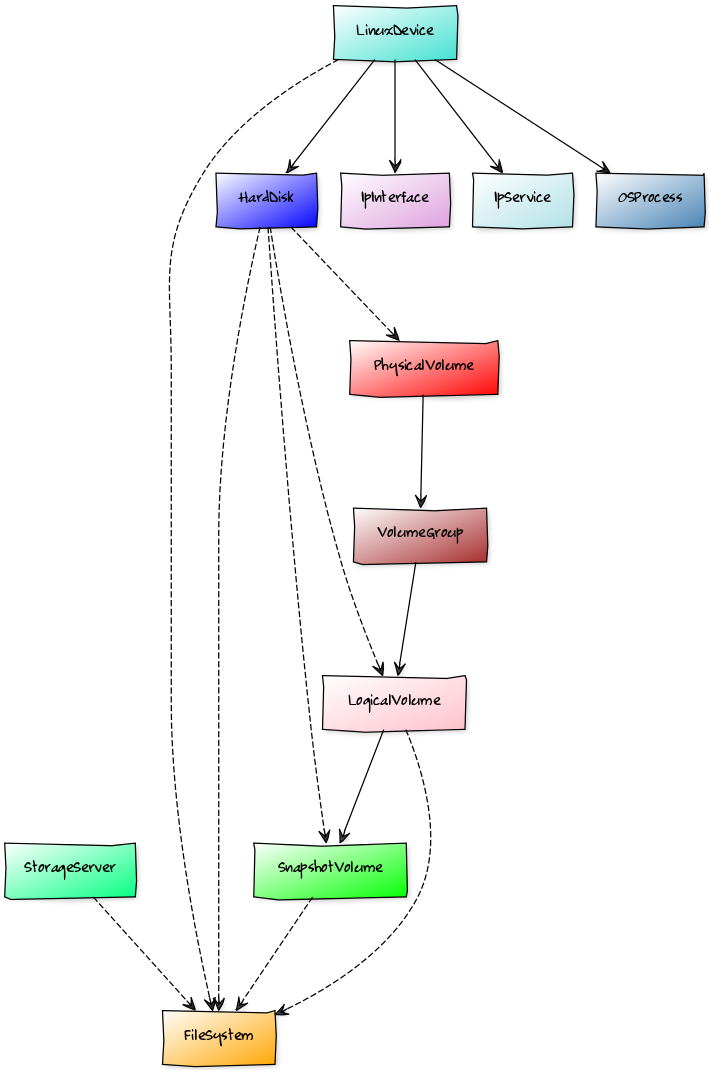
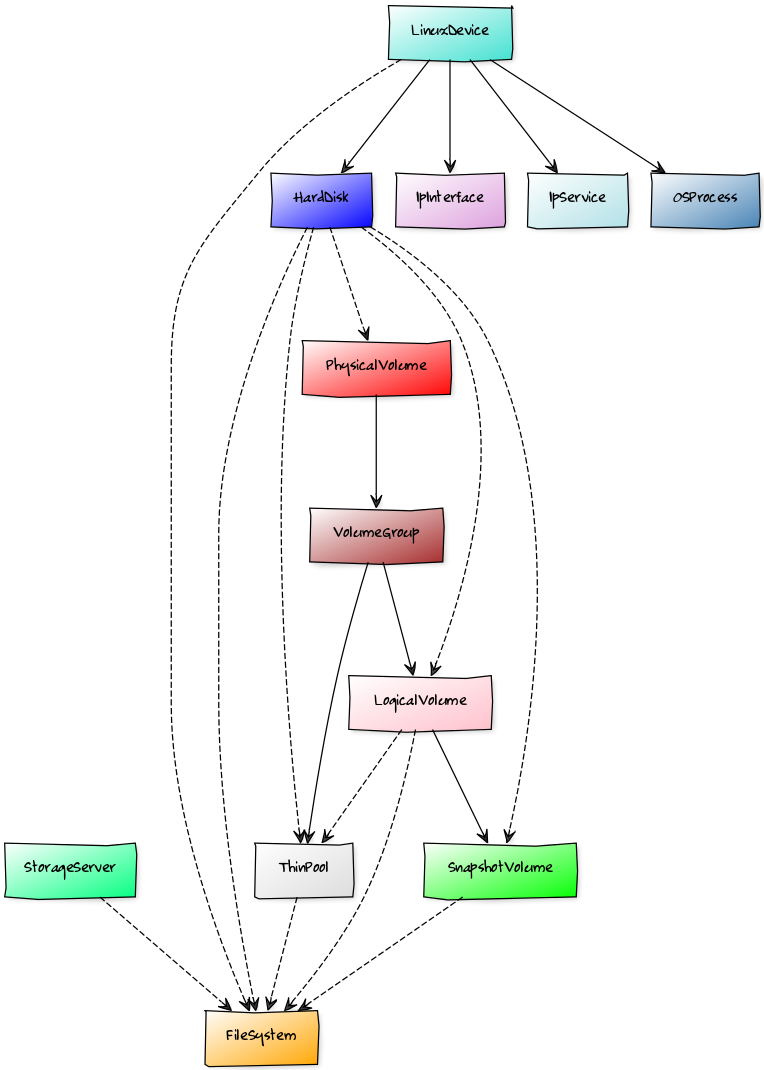
Feature/zps 2494-Thin Pool Monitoring  (#192)

diff --git a/ZenPacks/zenoss/LinuxMonitor/modeler/plugins/zenoss/cmd/linux/lvm.py b/ZenPacks/zenoss/LinuxMonitor/modeler/plugins/zenoss/cmd/linux/lvm.py
@@ -1,6 +1,6 @@
 ##############################################################################
 #
-# Copyright (C) Zenoss, Inc. 2015, all rights reserved.
+# Copyright (C) Zenoss, Inc. 2018, all rights reserved.
 #
 # This content is made available according to terms specified in
 # License.zenoss under the directory where your Zenoss product is installed.
@@ -92,7 +92,9 @@ class lvm(CommandPlugin):
                'lsblk -rb 2>&1; '
                'sudo pvs --units b --nosuffix -o pv_name,pv_fmt,pv_attr,pv_size,pv_free,pv_uuid,vg_name 2>&1; '
                'sudo vgs --units b --nosuffix -o vg_name,vg_attr,vg_size,vg_free,vg_uuid 2>&1; '
-               'sudo lvs --units b --nosuffix -o lv_name,vg_name,lv_attr,lv_size,lv_uuid,origin 2>&1; '
+               'if command -v thin_check >/dev/null 2>&1; then '
+               '''sudo lvs --separator ' '  --units b --nosuffix -o lv_name,vg_name,lv_attr,lv_size,lv_uuid,origin,lv_metadata_size,pool_lv; else '''
+               '''sudo lvs --separator ' '  --units b --nosuffix -o lv_name,vg_name,lv_attr,lv_size,lv_uuid,origin; fi; '''
                'echo "DISK_BY_ID  LINK" 2>&1; '
                'find /dev/disk/by-id -type l ! -name "*-part*" -printf "%P %l\\n" 2>&1'
                )
@@ -137,7 +139,9 @@ class lvm(CommandPlugin):
             '\s*(?P<lv_attr>\S+)'
             '\s*(?P<lv_size>\d+)'
             '\s*(?P<lv_uuid>\S+)'
-            '\s*(?P<origin>\S*)')
+            '\s?(?P<origin>\S*)'
+            '\s?(?P<lv_metadata_size>\d*)'
+            '\s?(?P<pool_lv>\S*)')
         by_id_re = re.compile(
             '(?P<disk_id>\S+)'            # the id label
             '\s*\.\./\.\./'               # the ../../ prefix to the link
@@ -222,7 +226,7 @@ class lvm(CommandPlugin):
             if hasattr(hd_om, 'disk_ids'):
                 for id in hd_om.disk_ids:
                     if id.startswith('wwn-0x') and len(id) == 38:
-                        # add 30 bytes of likely uuid to disk_ids 
+                        # add 30 bytes of likely uuid to disk_ids
                         # to simplify uuid search on CiscoUCS side
                         # because Windows hard disk would chop off
                         # the first 2 bytes
@@ -258,6 +262,7 @@ class lvm(CommandPlugin):
 
         for vg_om in vg_maps:
             lv_vg_oms = []
+            tp_vg_oms = []
             compname = 'volumeGroups/' + vg_om.id
             for lv_om in lv_maps:
                 if lv_om.vgname == vg_om.title:
@@ -275,12 +280,20 @@ class lvm(CommandPlugin):
                         # device block not found
                         log.debug('device block {} not found for logical volume {} in volume group {}'
                                   .format(lv_om.vgname+'-'+lv_om.title, lv_om.title, lv_om.vgname))
-                    lv_vg_oms.append(lv_om)
+                    if  lv_om.modname == 'ZenPacks.zenoss.LinuxMonitor.ThinPool':
+                        tp_vg_oms.append(lv_om)
+                    else:
+                        lv_vg_oms.append(lv_om)
             maps.append(RelationshipMap(
                 relname="logicalVolumes",
                 compname=compname,
                 modname="ZenPacks.zenoss.LinuxMonitor.LogicalVolume",
                 objmaps=lv_vg_oms))
+            maps.append(RelationshipMap(
+                relname="thinPools",
+                compname=compname,
+                modname="ZenPacks.zenoss.LinuxMonitor.ThinPool",
+                objmaps=tp_vg_oms))
 
             for lv_om in lv_maps:
                 if lv_om.vgname == vg_om.title:
@@ -354,7 +367,16 @@ class lvm(CommandPlugin):
             lv_om.origin = columns['origin']
             lv_om.relname = 'snapshotVolumes'
             lv_om.modname = 'ZenPacks.zenoss.LinuxMonitor.SnapshotVolume'
+        elif columns['lv_metadata_size']:
+            lv_om.id = 'tp-{}'.format(self.prepId(columns['vg_name'])+'_'+self.prepId(columns['lv_name']))
+            lv_om.metadatasize = columns['lv_metadata_size']
+            lv_om.relname = 'thinPools'
+            lv_om.modname = 'ZenPacks.zenoss.LinuxMonitor.ThinPool'
         else:
+            if columns['pool_lv']:
+                lv_om.set_thinPool = 'tp-{}'.format(self.prepId(columns['vg_name'])+'_'+self.prepId(columns['pool_lv']))
+            else:
+                lv_om.set_thinPool = ''
             lv_om.relname = 'logicalVolumes'
             lv_om.modname = 'ZenPacks.zenoss.LinuxMonitor.LogicalVolume'
         return lv_om

diff --git a/ZenPacks/zenoss/LinuxMonitor/ThinPool.py b/ZenPacks/zenoss/LinuxMonitor/ThinPool.py
@@ -1,0 +1,64 @@
+##############################################################################
+#
+# Copyright (C) Zenoss, Inc. 2018, all rights reserved.
+#
+# This content is made available according to terms specified in
+# License.zenoss under the directory where your Zenoss product is installed.
+#
+##############################################################################
+
+from Products.ZenUtils.Utils import prepId
+from ZenPacks.zenoss.LinuxMonitor.util import override_graph_labels
+
+from . import schema
+
+class ThinPool(schema.ThinPool):
+    '''Class that handles Thin Pools
+    '''
+
+    def filesystem(self):
+        """Return filesystem mounting this Thin Pool."""
+        try:
+            # Assumes all FileSystem ids are prepId(mount). Currently they are.
+            return self.device().os.filesystems._getOb(prepId(self.mountpoint))
+        except Exception:
+            pass
+
+    def blockDevice(self):
+        if not self.major_minor:
+            return
+
+        device = self.device()
+        results = device.componentSearch.search({'meta_type': 'LinuxHardDisk'})
+        for brain in results:
+            try:
+                obj = brain.getObject()
+            except Exception:
+                pass
+            else:
+                if obj.major_minor == self.major_minor:
+                    return obj
+
+    def getDefaultGraphDefs(self, drange=None):
+        # Add and re-label graphs displayed in other components
+        graphs = super(ThinPool, self).getDefaultGraphDefs(drange)
+        vg = self.volumeGroup()
+        if vg:
+            vgGraphs = override_graph_labels(vg, drange)
+            graphs.extend(vgGraphs)
+
+        bd = self.blockDevice()
+        if bd:
+            bdGraphs = override_graph_labels(bd, drange)
+            graphs.extend(bdGraphs)
+
+        return graphs
+
+    def getGraphObjects(self):
+        graphs = super(ThinPool, self).getGraphObjects()
+        graphs.extend(self.volumeGroup().getGraphObjects())
+        bd = self.blockDevice()
+        if bd:
+            graphs.extend(bd.getGraphObjects())
+
+        return graphs

diff --git a/ZenPacks/zenoss/LinuxMonitor/parsers/linux/poolstats.py b/ZenPacks/zenoss/LinuxMonitor/parsers/linux/poolstats.py
@@ -1,0 +1,57 @@
+##############################################################################
+#
+# Copyright (C) Zenoss, Inc. 2018, all rights reserved.
+#
+# This content is made available according to terms specified in
+# License.zenoss under the directory where your Zenoss product is installed.
+#
+##############################################################################
+
+"""Parse results of lvm2 "lvs" command.
+
+Retrieve the data_percent and metadata_percent fields.
+
+sample output:
+docker   docker-pool   6.85   1.35
+serviced serviced-pool 4.94   0.56
+
+
+"""
+import logging
+log = logging.getLogger("zen.poolstats")
+
+from Products.ZenRRD.CommandParser import CommandParser
+
+class poolstats(CommandParser):
+
+    def dataForParser(self, context, dp):
+        """Add additional data to dp for the processResults method.
+
+        This method is executed in zenhub, so context will be a full
+        ThinPool.
+
+        """
+        return {
+            'vgname': getattr(context, 'vgname', None),
+            'lvname': getattr(context, 'title', None),
+            }
+
+    def processResults(self, cmd, result):
+
+        for dp in cmd.points:
+
+            for line in cmd.result.output.split('\n'):
+                try:
+                    vg_name, lv_name, data_percent, metadata_percent = line.strip().split()
+                except ValueError:
+                    continue
+
+                # Verify that this line is for the appropriate component.
+                if vg_name != dp.data['vgname'] or lv_name != dp.data['lvname']:
+                    continue
+
+                if dp.id == 'percentDataUsed':
+                    result.values.append((dp, data_percent))
+                elif dp.id == 'percentMetaDataUsed':
+                    result.values.append((dp, metadata_percent))
+        return result

diff --git a/ZenPacks/zenoss/LinuxMonitor/migrate/AddRelations.py b/ZenPacks/zenoss/LinuxMonitor/migrate/AddRelations.py
@@ -1,0 +1,28 @@
+##############################################################################
+#
+# Copyright (C) Zenoss, Inc. 2017, all rights reserved.
+#
+# This content is made available according to terms specified in
+# License.zenoss under the directory where your Zenoss product is installed.
+#
+##############################################################################
+
+from Products.ZenModel.migrate.Migrate import Version
+from Products.ZenModel.ZenPack import ZenPackMigration
+
+
+class AddRelations(ZenPackMigration):
+    version = Version(2, 3, 0)
+
+    def migrate(self, pack):
+        dc = pack.dmd.Devices.Server.SSH.Linux
+        for d in dc.getSubDevicesGen():
+
+            for volumeGroup in d.volumeGroups():
+                if not hasattr(volumeGroup, 'thinPools'):
+                    volumeGroup.buildRelations()
+                for logicalVolume in volumeGroup.logicalVolumes():
+                    if not hasattr(logicalVolume, 'thinPool'):
+                        logicalVolume.buildRelations()
+
+AddRelations()

diff --git a/ZenPacks/zenoss/LinuxMonitor/tests/plugindata/lvm.py b/ZenPacks/zenoss/LinuxMonitor/tests/plugindata/lvm.py
@@ -42,7 +42,16 @@
              'title': 'share',
              'uuid': 'SBIYpJ-Xgcr-0nlT-ModL-aqev-1L2T-rQgZUX',
              'vgname': 'lvmserver'}, },
-
+        {'tp-lvmserver_pool':
+            {'attributes': ['thin pool','writeable','inherited','active','open','thin'],
+             'id': 'tp-lvmserver_pool',
+             'lvsize': 1073741824,
+             'modname': 'ZenPacks.zenoss.LinuxMonitor.ThinPool',
+             'metadatasize': '4194304',
+             'relname': 'thinPools',
+             'title': 'pool',
+             'uuid': 'Je2mF8-V0q3-CXVX-6p21-eBAD-VMPt-pEOczH',
+             'vgname': 'lvmserver'}, },
         {'lv-lvmserver_share-snapshot':
             {'attributes': ['snapshot', 'writeable', 'inherited', 'active'],
              'id': 'lv-lvmserver_share-snapshot',

diff --git a/README.rst b/README.rst
@@ -46,7 +46,7 @@ Features
 
 -  Monitors multiple Linux flavors and versions
 -  OpenStack LVM volume integration
--  Monitors LVM Physical Volumes, Volume Groups, and Logical Volumes
+-  Monitors LVM Physical Volumes, Volume Groups, Thin Pools and Logical Volumes
 -  Block Device monitoring
 -  Service Monitoring via Sysvinit, Systemd, Upstart
 -  Root Cause Analysis with Impact Support
@@ -103,11 +103,16 @@ Physical Volumes
 
 Volume Groups
     Attributes: Name, Size, Free, % Util, Snapshot Volumes, Logical
-    Volumes, Physical Volumes
+    Volumes, Physical Volumes, Thin Pools
 
 Logical Volumes
     Attributes: Name, Volume Group, Size, Block Device, File System,
     Active, Snapshot Volumes
+    Relations: Volume Groups, Thin Pools
+
+Thin Pools
+    Attributes: Name, Volume Group, Size, Block Device, File System,
+    Active, Metadata Size
     Relations: Volume Groups
 
 OS Processes
@@ -341,6 +346,7 @@ Modeler Plugins
 -  zenoss.cmd.linux.sudo\_dmidecode
 -  zenoss.cmd.linux.os\_release
 -  zenoss.cmd.linux.os\_service
+-  zenoss.cmd.linux.poolstats
 
 .. Note::
    As of version 2.3.0 the zenoss.cmd.linux.rpm and zenoss.cmd.linux.alt\_kernel\_name
@@ -360,6 +366,7 @@ Monitoring Templates
 -  LogicalVolume (in /Devices/Server/SSH/Linux)
 -  OSProcess (in /Devices/Server/SSH/Linux)
 -  OSService (in /Devices/Server/SSH/Linux)
+-  ThinPool (in /Devices/Server/SSH/Linux)
 
 Monitoring Templates
 --------------------
@@ -562,6 +569,23 @@ LogicalVolume (in /Devices/Server/SSH/Linux)
 
    -  *None*
 
+ThinPool (in /Devices/Server/SSH/Linux)
+
+-  Data Points
+
+   -  state
+   -  health
+   -  percentDataUsed
+   -  percentMetaDataUsed
+
+-  Thresholds
+
+   -  90 percent used
+
+-  Graphs
+
+   -  Pool Utilization
+
 OSProcess (in /Devices/Server/SSH/Linux)
 
 -  Data Points
@@ -604,7 +628,9 @@ Service Impact Relationships
 -  LogicalVolume is impacted by VolumeGroup or HardDisk;
 -  SnapshotVolume is impacted by LogicalVolume or HardDisk;
 -  FileSystem is impacted by SnapshotVolume or LogicalVolume or HardDisk
-   or LinuxDevice
+   or LinuxDevice or ThinPool
+-  ThinPool is impacted by VolumeGroup or HardDisk or logicalVolume;
+
 
 Daemons
 -------
@@ -666,6 +692,20 @@ Changes
 - Fix custom banner errors and disabled zenoss.cmd.linux.alt\_kernel\_name modeler plugin by default. (ZPS-2998)
 - Support OS Service Monitoring for RHEL-5 (SystemV), RHEL-6 (Upstart) and  RHEL-7 (Systemd)(ZPS-2722)
 - Add dpkg support to zenoss.cmd.linux.rpm modeler plugin. (ZPS-1474)
+- Added support for Thin Pool Monitoring. (ZPS-2494)
+
+  - New Component: The following Component was added:
+
+    - ThinPools
+
+  - New Graph: The following graph was added:
+
+    - ThinPools: Pool MetaData/Data Utilization
+
+  - New Relationships: The following relationships were added:
+
+    -  VolumeGroup 1:MC ThinPool
+    -  ThinPool 1:M LogicalVolume
 
 2.2.7
 
